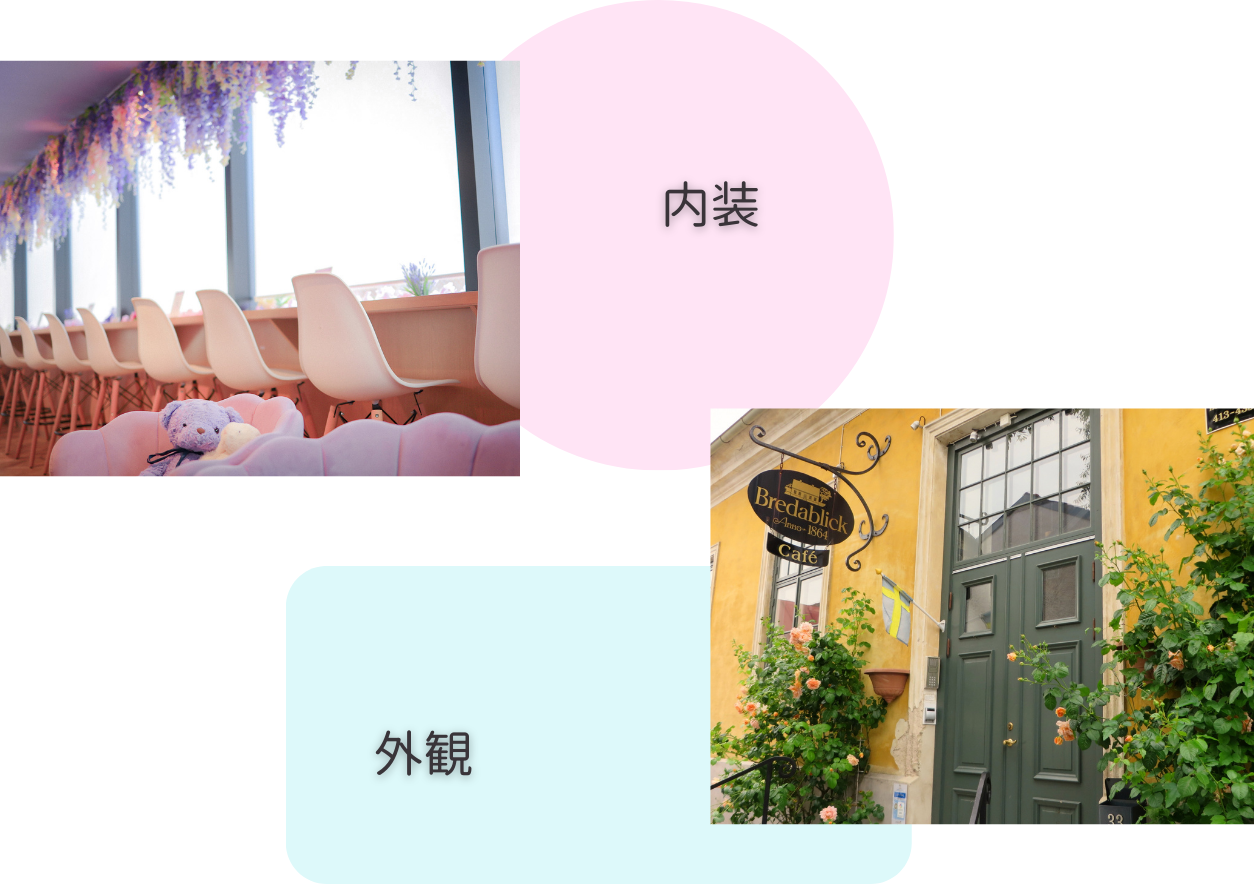
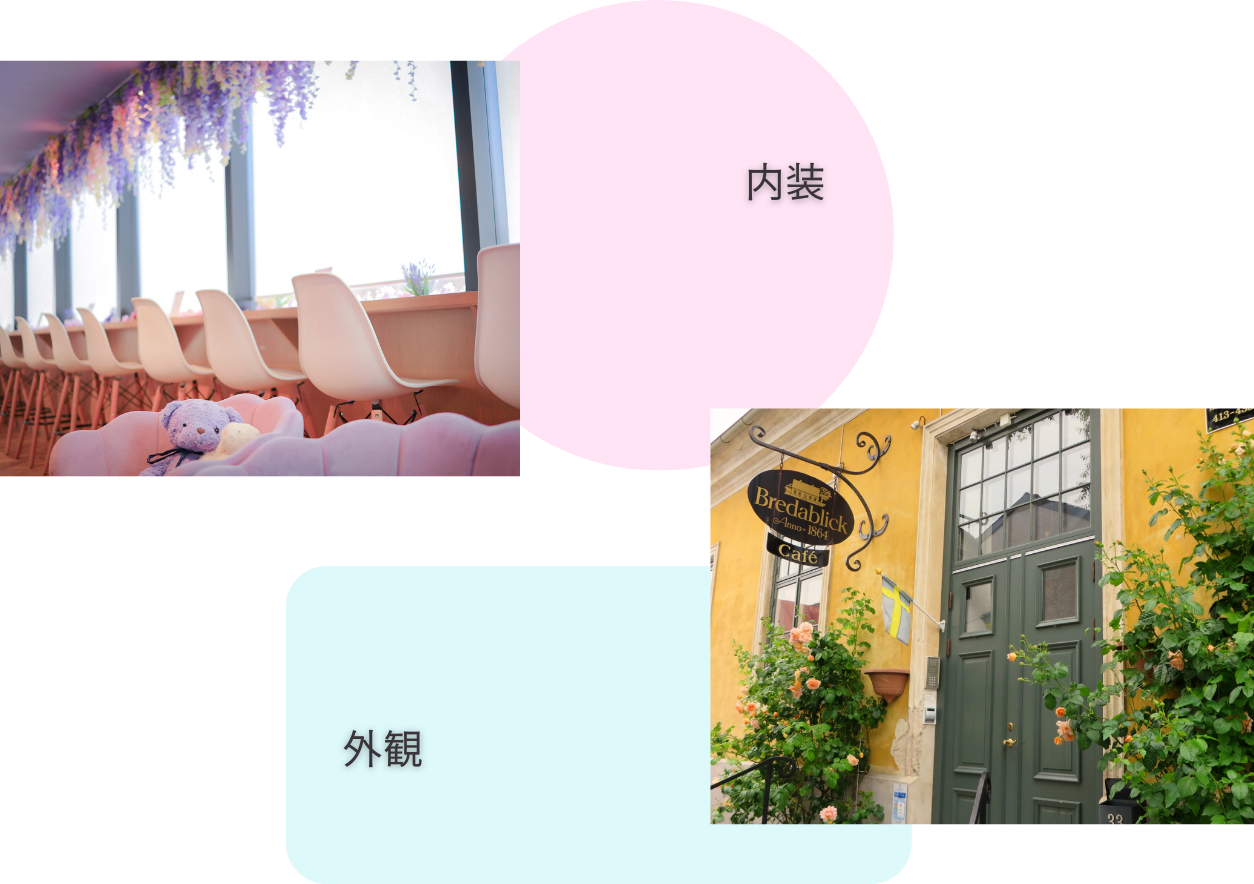
0625②

Changed region(s): [[0.5287, 0.1833, 0.6531, 0.2749], [0.2799, 0.8247, 0.3732, 0.8857]]

diff --git a/public/assets/stylesheets/bundle7179f623b69996750b3a.css b/public/assets/stylesheets/bundle7179f623b69996750b3a.css
@@ -1,0 +1,2 @@
+@import url(https://fonts.googleapis.com/css2?family=Noto+Sans+JP:wght@300;400;700&display=swap);
+html{color:#000;background:#fff}body,div,dl,dt,dd,ul,ol,li,h1,h2,h3,h4,h5,h6,pre,code,form,fieldset,legend,input,textarea,p,blockquote,th,td{margin:0;padding:0}table{border-collapse:collapse;border-spacing:0}fieldset,img{border:0}address,caption,cite,code,dfn,em,strong,th,var{font-style:normal;font-weight:normal}ol,ul{list-style:none}caption,th{text-align:left}h1,h2,h3,h4,h5,h6{font-size:100%;font-weight:normal}q:before,q:after{content:""}abbr,acronym{border:0;font-variant:normal}sup{vertical-align:text-top}sub{vertical-align:text-bottom}input,textarea,select{font-family:inherit;font-size:inherit;font-weight:inherit}input,textarea,select{*font-size:100%}legend{color:#000}#yui3-css-stamp.cssreset{display:none}ul{list-style-type:none}input,textarea,select{border:none;border-radius:0;box-sizing:border-box;background:none;outline:none;appearance:none}select::-ms-expand{display:none}input::-ms-expand{display:none}input[type=radio]{display:none}textarea{resize:none}*,*::after,*::before{box-sizing:border-box}html{font-size:62.5%}@media(max-width: 768px){html{font-size:min(2.66vw,10px)}}body{color:#505050}a{transition:all .3s;color:inherit}a:hover{opacity:.8}@media screen and (max-width: 768px){body{padding-top:94px}}img{width:100%;vertical-align:middle}a{color:inherit;text-decoration:none}@font-face{font-family:"AzoSans-Bold";src:url("../fonts/azo-sans-bold.otf") format("opentype");font-weight:bold;font-style:normal}body{font-family:"AzoSans-Bold","Noto Sans JP",sans-serif}.l-header{background-color:#fff}.l-header__item{display:flex;justify-content:center;align-items:center;height:5rem;background-color:#f5f5f5}.l-header__logo{display:flex;margin-top:15px;justify-content:center;align-items:center}.l-header__logo img{width:21.8rem}@media screen and (max-width: 768px){.l-header{position:fixed;width:100%;height:94px;z-index:9;top:0;left:0}.l-header__item{height:34px}.l-header__logo img{max-width:15rem}}.l-footer{margin-top:12rem}.l-footer__LINE{display:block;position:fixed;left:86px;z-index:2;bottom:60px;width:100px;height:100px}.l-footer__inner{position:relative;max-width:1280px;width:66%;margin:0 auto}.l-footer__title{font-size:1.9rem;line-height:1.9;font-weight:bold;margin-bottom:.5rem}.l-footer__content{display:flex;width:100%;max-width:92%;margin:4.5rem auto;justify-content:space-between}.l-footer__description{display:block;font-size:1.4rem}.l-footer__SP{display:none}.l-footer__copyright{display:block;font-size:1.2rem;font-weight:bold}@media screen and (max-width: 768px){.l-footer__inner{max-width:none;width:auto;padding-right:30px;padding-left:30px}.l-footer__title{font-size:2.1rem}}@media screen and (max-width: 768px){.l-footer{margin-top:8.6rem}.l-footer__LINE{bottom:30px;left:20px;height:68px;width:68px}.l-footer__content{flex-wrap:wrap;justify-content:center;align-items:center;flex-direction:column;margin:4.5rem auto 2.4rem}.l-footer__description{margin:2.7rem 0 2.5rem;text-align:center}.l-footer__SP{display:block}.l-footer__copyright{display:block;font-size:1.2rem;font-weight:bold}}.c-logo img{width:10.5rem}.c-logo--small img{width:12.8rem}@media screen and (max-width: 768px){.c-logo img{max-width:6.9rem}.c-logo--small img{max-width:12rem}}.c-menuBtn{position:fixed;z-index:9999;width:30px;height:30px;top:8rem;left:6rem;cursor:pointer}.c-menuBtn__bar{position:absolute;display:block;width:100%;height:3px;background-color:#505050;transition:all .4s}.c-menuBtn__bar:nth-of-type(1){top:6px}.c-menuBtn__bar:nth-of-type(2){bottom:7px}.c-menuBtn.is-active .c-menuBtn__bar:nth-of-type(1){transform:translateY(-50%) rotate(135deg);top:14px}.c-menuBtn.is-active .c-menuBtn__bar:nth-of-type(2){transform:translateY(-50%) rotate(-135deg);top:14px}@media screen and (max-width: 768px){.c-menuBtn{top:50px;left:unset;right:3rem}}.c-title{margin-top:-2.5rem;font-family:"AzoSans-Bold",sans-serif;font-size:5.5rem;line-height:1}@media screen and (max-width: 768px){.c-title{margin-top:-1.5rem;font-size:2.9rem}}.c-subTitle{font-size:2.8rem;font-weight:bold;line-height:2.55;letter-spacing:.1em;color:#fcb9b6;display:flex;align-items:center;justify-content:flex-start;gap:1.5rem}.c-subTitle::before{content:"";display:block;width:8rem;border-bottom:5px dotted #fcb9b6;height:5px;margin-left:.5rem}@media screen and (max-width: 768px){.c-subTitle{font-size:1.4rem;gap:.5rem}.c-subTitle::before{width:3.5rem;border-bottom:3px dotted #fcb9b6;height:3px;margin-top:-1.5px}}.c-btn{display:flex;align-items:center;justify-content:center;width:300px;max-width:100%;height:70px;margin:8rem auto 0;color:#fff;font-family:Hiragino Sans,"ヒラギノ角ゴシック",Hiragino Kaku Gothic ProN,"ヒラギノ角ゴ ProN W3",Roboto,"Droid Sans",YuGothic,"游ゴシック",Meiryo,"メイリオ","ＭＳ Ｐゴシック",sans-serif;font-size:1.7rem;font-weight:normal;background-color:#fcb9b6;border:1px solid #fcb9b6;border-radius:.5rem;cursor:pointer}@media screen and (max-width: 768px){.c-btn{width:21rem;height:49px;font-size:1.5rem;margin:4.5rem auto 0}}.p-nav{display:none;position:fixed;top:0;right:0;bottom:0;left:0;z-index:1;width:46.8rem;max-width:100%;height:100vh;padding:16rem 0 0 0;background-color:#fff;color:#707070;font-family:"AzoSans-Bold",sans-serif;font-size:2rem;font-weight:bold;line-height:1.2;transition:all .4s}.p-nav__list{height:100%;overflow-y:auto;padding:0 10.5rem 0 4.5rem}.p-nav__item{padding:1.5rem 0;border-bottom:3px dotted #fcb9b6}.p-nav__box{display:block;position:relative;padding:0 0 1.5rem;border-bottom:3px dotted #fcb9b6;cursor:pointer}.p-nav__box::after{content:"";position:absolute;right:0;top:-0.2rem;width:2.4rem;height:2.4rem;border-radius:100%;background:url("../../assets/images/icon_close.svg") no-repeat center center/auto}.p-nav__box.is-active::after{background:url("../../assets/images/icon_open.svg") no-repeat center center/auto}.p-nav__item--inner{border-bottom:unset;padding-bottom:0}.p-nav__innerList{max-height:0;margin:0;padding-left:2rem;font-size:1.4rem;font-weight:700;overflow:hidden;transition:all .4s}.p-nav__innerList.is-active{max-height:100vh}.p-nav__innerItem{display:flex;align-items:center;gap:2rem;padding:1.8rem 0 0}.p-nav__innerItem::before{content:"";display:block;width:1.7rem;height:5px;background:url("../../assets/images/dot.png") no-repeat center center/100%}.p-nav__container{display:none}.p-nav.is-active{display:block;pointer-events:auto}@media screen and (max-width: 768px){.p-nav{top:94px;left:unset;right:0;height:calc(100vh - 94px);padding:0;transition:right .4s}.p-nav__list{padding:0 8%}.p-nav__container{display:block}.p-nav__logo{margin:2.5rem 0;text-align:center}.p-nav__logo img{width:13.5rem}.p-nav__title{text-align:center;font-size:1.4rem}.p-nav__sns{display:flex;justify-content:center;align-items:center;margin-top:1rem;gap:1rem}.p-nav__content{width:40px}.p-nav__copyright{text-align:center;margin-top:3rem;font-size:1rem}}.p-carousel{margin-top:3em}.p-carousel__item{width:1273.8px;margin:0 60px;border-radius:2rem;overflow:hidden}.p-carousel__PC{display:block !important}.p-carousel__SP{display:none !important}.slick-dots{text-align:center;bottom:-87px}.slick-dots li{display:inline-block;width:1.6rem;height:1.6rem;border-radius:100%;overflow:hidden;border:1px solid #707070;background-color:#fff;margin:0 5px}.slick-dots li.slick-active{background-color:#707070}.slick-dots li button:before{content:""}@media screen and (max-width: 768px){.p-carousel__item{margin:0 5px}.p-carousel__PC{display:none !important}.p-carousel__SP{display:block !important}.slick-dots li{width:1.2rem;height:1.2rem}.slick-dots li button:before{font-size:3px !important}.slick-dots{bottom:-60px}}.p-image{margin:24rem auto 0;position:relative;max-width:1280px;width:66%}.p-image__PC{display:block}.p-image__SP{display:none}@media screen and (max-width: 768px){.p-image{margin-top:11.5rem;width:100%}.p-image__PC{display:none}.p-image__SP{display:block}}.p-description{text-align:center;margin:12rem auto 0;padding:7rem 2rem;max-width:1280px;width:66%;letter-spacing:.05em;border:5px dotted #fcb9b6}.p-description__title{font-size:clamp(2.5rem,2.5vw,3rem);line-height:1.5;font-weight:bold;margin:0 auto}.p-description__underline{background:linear-gradient(180deg, transparent 65%, #fcb9b6 35%)}.p-description__SP{display:none}.p-description__logo img{width:30rem;margin:5rem auto 4rem}.p-description__text{font-size:clamp(1.4rem,1.4vw,1.8rem);line-height:2.2}@media screen and (max-width: 768px){.p-description{max-width:none;width:80%;margin:4rem auto 0;padding:3rem 0;border:3px dotted #fcb9b6}.p-description__title{font-size:1.6rem}.p-description__SP{display:block}.p-description__logo img{width:20rem;margin:3rem auto 2.7rem}}.p-shoplist{margin-top:27rem;padding:1px 0 25rem;background-color:#fffcf0}.p-shoplist__list{display:flex;justify-content:flex-start;flex-wrap:wrap;gap:4.4%}.p-shoplist__item{width:30.4%;margin-top:18.5rem}.p-shoplist__area{display:flex;align-items:flex-start;justify-content:space-between;margin-top:5.5rem;padding-bottom:1.2rem;border-bottom:5px dotted #fcb9b6}.p-shoplist__name{flex:1;color:#fcb9b6;font-family:"AzoSans-Bold",sans-serif;font-weight:700;font-size:clamp(2.4rem,2vw,3.6rem);line-height:1.14;letter-spacing:.05em;word-break:break-all}.p-shoplist__sub{display:block;margin-top:.7rem;color:#505050;font-family:"Noto Sans JP",sans-serif;font-weight:bold;font-size:1.8rem;line-height:1.4}.p-shoplist__arrow{display:block;width:8rem}.p-shoplist__text{margin-top:1.3rem;font-size:1.4rem;font-weight:bold;line-height:1.44;letter-spacing:.025em}@media screen and (max-width: 768px){.p-shoplist{margin-top:10rem;padding:1px 0 9rem}.p-shoplist__item{width:100%;margin-top:8rem}.p-shoplist__area{border-bottom:3px dotted #fcb9b6}.p-shoplist__name{font-size:2.9rem}.p-shoplist__sub{font-size:1.2rem}.p-shoplist__arrow{width:5.5rem}.p-shoplist__text{font-size:1.4rem}}.p-inner{position:relative;max-width:1580px;width:82%;margin:0 auto}@media screen and (max-width: 768px){.p-inner{max-width:none;width:auto;padding-right:30px;padding-left:30px}}.p-parkmap__box{position:relative;width:80%;margin:7.5rem auto 0;display:flex;justify-content:flex-end}.p-parkmap__img{max-width:80%;margin-right:0}.p-parkmap__list{position:absolute;left:0;bottom:0;font-size:clamp(1.6rem,1.8vw,3.3rem);line-height:2.78;font-weight:bold;letter-spacing:.1em}.p-parkmap__item{display:flex;align-items:center;justify-content:flex-start;gap:2rem}.p-parkmap__item::before{display:block;flex-shrink:0;width:min(3vw,6.2rem);height:min(3vw,6.2rem);content:"";border-radius:100%}.p-parkmap__item:nth-child(1):before{background-color:#fcb9b6}.p-parkmap__item:nth-child(2):before{background-color:#aadb87}.p-parkmap__item:nth-child(3):before{background-color:#95dcf0}.p-parkmap__item:nth-child(4):before{background-color:#f7f38c}@media screen and (max-width: 768px){.p-parkmap__box{flex-wrap:wrap;width:auto;margin-top:5rem}.p-parkmap__img{max-width:100%;margin-right:auto}.p-parkmap__list{position:relative;font-size:1.4rem;display:flex;align-items:center;justify-content:flex-start;gap:1rem;margin-top:3.5rem;flex-wrap:wrap}.p-parkmap__item{gap:1rem;width:47%;white-space:nowrap}.p-parkmap__item::before{width:2.8rem;height:2.8rem}}.p-insta{margin-top:28rem}.p-insta__box{text-align:center;margin:7rem auto 0;padding-bottom:10px}.p-insta__list{display:flex;flex-wrap:wrap;justify-content:space-between;width:80%;margin:0 auto;padding:5px}.p-insta__item{width:calc(25% - 10px);margin-bottom:10px}.p-insta__img img{width:100%;height:auto;display:block}@media screen and (max-width: 768px){.p-insta{margin-top:10rem}.p-insta__box{margin-top:4rem}.p-insta__list{width:100%}.p-insta__item{width:50%;margin:0;padding:5px}.p-insta__item:nth-of-type(5),.p-insta__item:nth-of-type(6),.p-insta__item:nth-of-type(7),.p-insta__item:nth-of-type(8){display:none}}.p-access{margin-top:28rem}.p-access__box{width:80%;margin:7rem auto 0}.p-access__map{mb:8rem}.p-access__PC{display:block}.p-access__SP{display:none}.p-access__video{margin:60px auto;text-align:center}.p-access__video img{max-width:700px}@media screen and (max-width: 768px){.p-access{margin-top:10rem}.p-access__box{max-width:none;width:auto;margin-top:4rem}.p-access__PC{display:none}.p-access__SP{display:block}}.p-shop{display:flex;flex-wrap:wrap;width:100%;padding:2rem 0;border-top:4px dotted #fcb9b6}.p-shop__label{width:18rem;font-size:1.5rem;font-weight:bold;letter-spacing:.05em}.p-shop__info{flex:1;font-size:1.5rem;letter-spacing:.05em}.p-shop:last-child{border-bottom:4px dotted #fcb9b6}.p-shop__info--bold{font-weight:bold}@media screen and (max-width: 768px){.p-shop{flex-wrap:nowrap;padding:1.5rem 0 !important;border-top:3px dotted #fcb9b6}.p-shop__label{width:8.5rem}.p-shop__info{font-size:1.5rem}.p-shop__info--small{font-size:1.5rem;letter-spacing:.03em}.p-shop__info--bold{font-size:1.4rem}.p-shop:last-child{border-bottom:3px dotted #fcb9b6}}.p-sns{margin:12.6rem 0 14rem;text-align:center}.p-sns__title{font-size:1.8rem;font-weight:bold}.p-sns__list{display:flex;margin-top:2.5rem;justify-content:center;gap:2rem}.p-sns__item img{width:40px}@media screen and (max-width: 768px){.p-sns{margin:6rem 0 5.6rem;padding-bottom:2rem;border-bottom:1px solid #707070}.p-sns__title{font-size:1.5rem}.p-sns__list{margin-top:1.4rem;gap:.8rem}.p-sns__item img{width:31px}}._scrollSlideUp{transform:translate(0, 3rem);transition-property:all;transition-duration:1s}._isActiveSlideUp{transform:translate(0, 0)}._scrollFadeIn{opacity:0;transition-property:all;transition-duration:1s}._isActiveFadeIn{opacity:1}

diff --git a/public/about/index.html b/public/about/index.html
@@ -29,7 +29,13 @@
 <link rel="stylesheet" type="text/css" href="//cdn.jsdelivr.net/npm/slick-carousel@1.8.1/slick/slick.css"/>
 <!-- Add the slick-theme.css if you want default styling -->
 <link rel="stylesheet" type="text/css" href="//cdn.jsdelivr.net/npm/slick-carousel@1.8.1/slick/slick-theme.css"/>
-<link href="../assets/stylesheets/bundle3f378f1a9ee379fb0858.css" rel="stylesheet"></head>
+<!-- Googleフォント -->
+<link rel="preconnect" href="https://fonts.googleapis.com">
+<link rel="preconnect" href="https://fonts.gstatic.com" crossorigin>
+<link href="https://fonts.googleapis.com/css2?family=Noto+Sans+JP:wght@300;400;700&display=swap" rel="stylesheet">
+<script src="https://ajax.googleapis.com/ajax/libs/jquery/3.4.1/jquery.min.js"></script>
+
+<link href="../assets/stylesheets/bundle7179f623b69996750b3a.css" rel="stylesheet"></head>
 <body>
 <div class="l-wrap">
 
@@ -37,11 +43,11 @@
     <div class="l-header__content">
       <div class="l-header__item">
         <div class="c-logo">
-          <a href="#"><img src="assets/images/logo_1.png" alt=""></a>
+          <a href="#"><img src="assets/images/logo_1.png" alt="ロゴ"></a>
         </div>
       </div>
         <div class="l-header__logo">
-          <a href="#"><img src="assets/images/logo_2.png" alt=""></a>
+          <a href="#"><img src="assets/images/logo_2.png" alt="ロゴ"></a>
         </div>
 
       <!-- ハンバーガーメニュー -->
@@ -69,7 +75,34 @@
 <li class="p-nav__item"><a href="#">Q & A</a></li>
 <li class="p-nav__item"><a href="#">Contact</a></li>
 
+<!-- SPのみ表示 -->
+<li class="p-nav__container" >
+<div class="p-nav__logo">
+  <img src="assets/images/logo_3.png" alt="ロゴ" />
+</div>
+<p class="p-nav__title">＼ 公式SNSで最新情報をチェック／</p>
+<ul class="p-nav__sns">
+  <li class="p-nav__content">
+    <a href="#"><img src="assets/images/tiktok.png" alt="TikTok"></a>
+  </li>
+
+  <li class="p-nav__content">
+    <a href="#"><img src="assets/images/facebook.png" alt="facebook"></a>
+  </li>
+
+  <li class="p-nav__content">
+    <a href="#"><img src="assets/images/twitter.png" alt="Twitter"></a>
+  </li>
+
+  <li class="p-nav__content">
+    <a href="#"><img src="assets/images/instagram.png" alt="Instagram"></a>
+  </li>
+
 </ul>
+<p class="p-nav__copyright">© SWEETS.jp Co., Ltd.</p>
+</li>
+</ul>
+
 </nav>
 </div>
 </div>
@@ -85,11 +118,11 @@
 
 <footer class="l-footer">
 
-  <a href="#"><img class="l-footer__LINE" src="assets/images/LINE_1.png" alt=""></a>
+  <a href="#"><img class="l-footer__LINE" src="assets/images/LINE_1.png" alt="LINE"></a>
 
-<div class="l-footer__inner">
-  <h3 class="l-footer__title">スイーツパーク</h3>
-  <section class="l-footer__box">
+<div class="l-footer__inner ">
+  <h3 class="l-footer__title _scrollSlideUp _scrollFadeIn">スイーツパーク</h3>
+  <section class="l-footer__box _scrollSlideUp _scrollFadeIn">
 
     <dl class="p-shop">
       <dt class="p-shop__label">営業時間</dt>
@@ -121,23 +154,23 @@
 </dl>
 </section>
 
-<div class="p-sns">
+<div class="p-sns _scrollSlideUp _scrollFadeIn">
   <p class="p-sns__title">＼ 公式SNSで最新情報をチェック／</p>
   <ul class="p-sns__list">
     <li class="p-sns__item">
-      <a href="#"><img src="assets/images/instagram.png" alt=""></a>
+      <a href="#"><img src="assets/images/instagram.png" alt="Instagram"></a>
     </li>
 
     <li class="p-sns__item">
-      <a href="#"><img src="assets/images/twitter.png" alt=""></a>
+      <a href="#"><img src="assets/images/twitter.png" alt="Twitter"></a>
     </li>
 
     <li class="p-sns__item">
-      <a href="#"><img src="assets/images/tiktok.png" alt=""></a>
+      <a href="#"><img src="assets/images/tiktok.png" alt="TikTok"></a>
     </li>
 
     <li class="p-sns__item">
-      <a href="#"><img src="assets/images/LINE_2.png" alt=""></a>
+      <a href="#"><img src="assets/images/LINE_2.png" alt="LINE"></a>
     </li>
   </ul>
 </div>
@@ -145,7 +178,7 @@
 
 <div class="l-footer__content l-footer__inner">
   <div class="c-logo c-logo--small">
-    <a href="#"><img src="assets/images/logo_1.png" alt=""></a>
+    <a href="#"><img src="assets/images/logo_1.png" alt="ロゴ"></a>
     </div>
     <p class="l-footer__description">2,000店舗以上の洋菓子店の<br class="l-footer__SP">ラインナップで業界最大級の<br class="l-footer__SP">スイーツ総合通販サイト</p>
 		<p class="l-footer__copyright">© SWEETS.jp Co., Ltd.</p>
@@ -155,7 +188,6 @@
 </div><!-- l-wrap -->
 
 <!-- カルーセル -->
-<script src="https://ajax.googleapis.com/ajax/libs/jquery/3.4.1/jquery.min.js"></script>
         <script type="text/javascript" src="//cdn.jsdelivr.net/npm/slick-carousel@1.8.1/slick/slick.min.js"></script>
         <script type="text/javascript">
 $(document).ready(function(){
@@ -177,5 +209,5 @@ $(document).ready(function(){
   });
 });
         </script>
-      <script type="text/javascript" src="../assets/javascripts/bundle3f378f1a9ee379fb0858.js"></script></body>
+      <script type="text/javascript" src="../assets/javascripts/bundle7179f623b69996750b3a.js"></script></body>
 </html>

diff --git a/public/index.html b/public/index.html
@@ -29,9 +29,13 @@
 <link rel="stylesheet" type="text/css" href="//cdn.jsdelivr.net/npm/slick-carousel@1.8.1/slick/slick.css"/>
 <!-- Add the slick-theme.css if you want default styling -->
 <link rel="stylesheet" type="text/css" href="//cdn.jsdelivr.net/npm/slick-carousel@1.8.1/slick/slick-theme.css"/>
+<!-- Googleフォント -->
+<link rel="preconnect" href="https://fonts.googleapis.com">
+<link rel="preconnect" href="https://fonts.gstatic.com" crossorigin>
+<link href="https://fonts.googleapis.com/css2?family=Noto+Sans+JP:wght@300;400;700&display=swap" rel="stylesheet">
 <script src="https://ajax.googleapis.com/ajax/libs/jquery/3.4.1/jquery.min.js"></script>
 
-<link href="assets/stylesheets/bundleb0fa05d0f670900a306f.css" rel="stylesheet"></head>
+<link href="assets/stylesheets/bundle7179f623b69996750b3a.css" rel="stylesheet"></head>
 <body>
 <div class="l-wrap">
 
@@ -71,7 +75,8 @@
 <li class="p-nav__item"><a href="#">Q & A</a></li>
 <li class="p-nav__item"><a href="#">Contact</a></li>
 
-<li class="p-nav__cotainer" >
+<!-- SPのみ表示 -->
+<li class="p-nav__container" >
 <div class="p-nav__logo">
   <img src="assets/images/logo_3.png" alt="ロゴ" />
 </div>
@@ -378,5 +383,5 @@ $(document).ready(function(){
   });
 });
         </script>
-      <script type="text/javascript" src="assets/javascripts/bundleb0fa05d0f670900a306f.js"></script></body>
+      <script type="text/javascript" src="assets/javascripts/bundle7179f623b69996750b3a.js"></script></body>
 </html>

diff --git a/src/scss/foundation/_font.scss b/src/scss/foundation/_font.scss
@@ -4,6 +4,19 @@
 //   src: url("../fonts/AbhayaLibre-Regular.woff");
 // }
 
+// body {
+//   font-family: 'Noto Sans JP', sans-serif;
+// }
+
+@import url('https://fonts.googleapis.com/css2?family=Noto+Sans+JP:wght@300;400;700&display=swap');
+
+@font-face {
+  font-family: 'AzoSans-Bold';
+  src: url('../fonts/azo-sans-bold.otf') format('opentype');
+  font-weight: bold;
+  font-style: normal;
+}
+
 body {
-  font-family: 'Noto Sans JP', sans-serif;
+  font-family: 'AzoSans-Bold', 'Noto Sans JP', sans-serif;
 }

diff --git a/src/scss/object/project/_nav.scss b/src/scss/object/project/_nav.scss
@@ -86,6 +86,10 @@
       background: url('../../assets/images/dot.png') no-repeat center center / 100%;
     }
   }
+
+  &__container {
+    display: none;
+  }
 }
 
 .p-nav.is-active {
@@ -105,6 +109,10 @@
 
     &__list {
       padding: 0 8%;
+    }
+
+    &__container {
+      display: block;
     }
 
     &__logo {

diff --git a/src/scss/object/project/_shop.scss b/src/scss/object/project/_shop.scss
@@ -8,13 +8,14 @@
   &__label {
     width: 18rem;
     font-size: 1.5rem;
-    font-weight: 500;
+    font-weight: bold;
+    letter-spacing: 0.05em;
   }
 
   &__info {
     flex: 1;
     font-size: 1.5rem;
-    letter-spacing: 0.01em;
+    letter-spacing: 0.05em;
   }
 }
 
